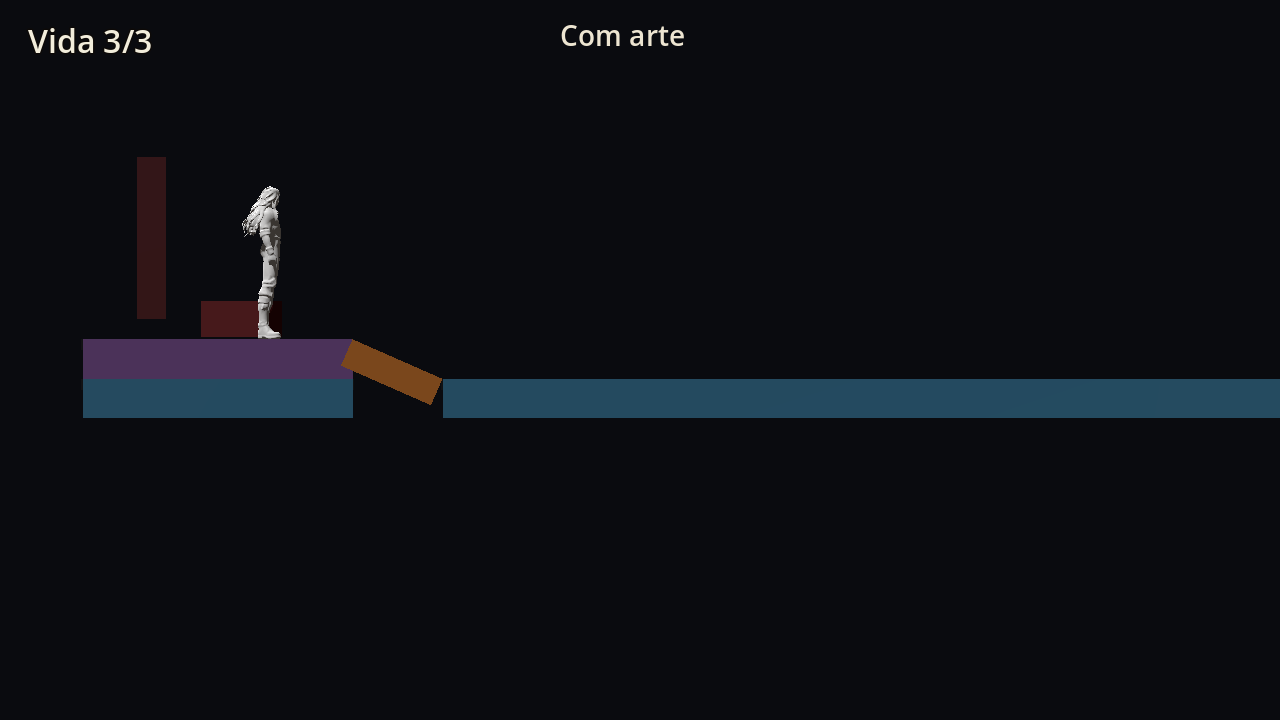
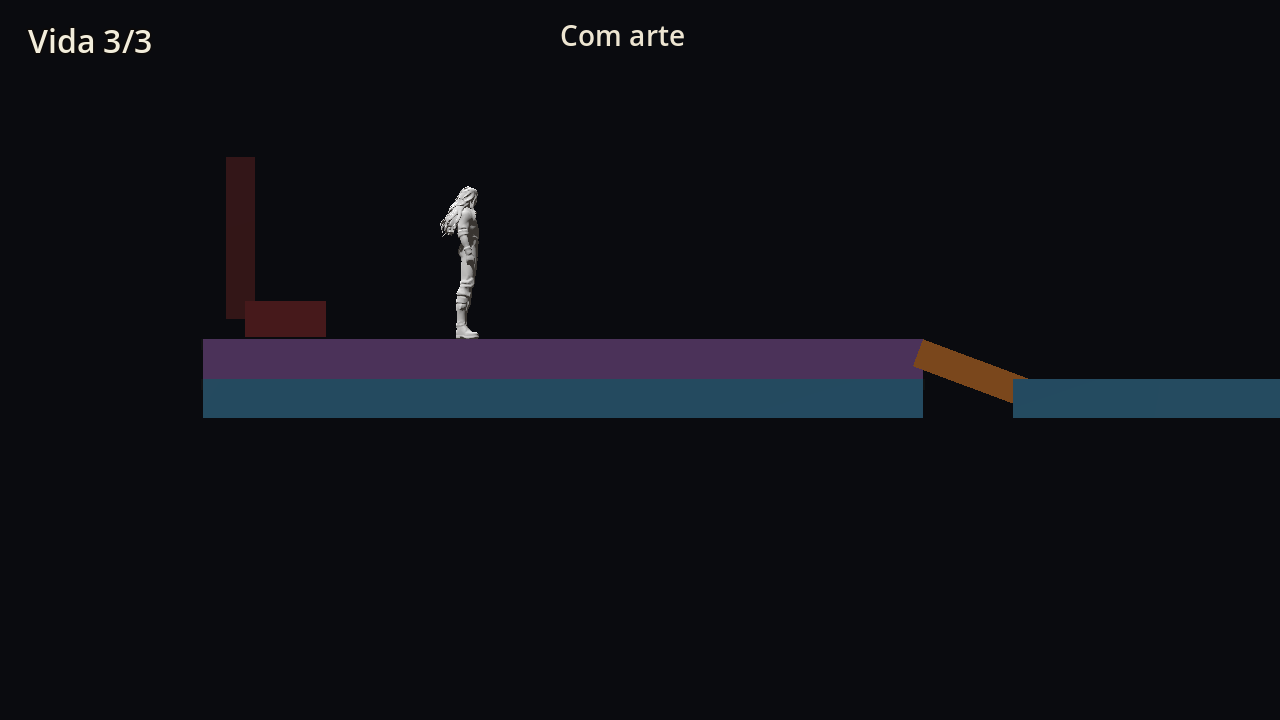
Alonga o salão do prólogo e abre a sala do trono à esquerda dele.

Changed region(s): [[0.0625, 0.2139, 0.8125, 0.5806]]

diff --git a/MD-usario/relatorios/15c-blockout-do-prologo.md b/MD-usario/relatorios/15c-blockout-do-prologo.md
@@ -6,23 +6,23 @@ A cena 15-B permanece em `scenes/verification/15_escadaria_exterior.tscn`. Lá, 
 
 ## Como a faixa está montada
 
-O jogador e a câmera vêm da cena 15. O nascimento continua no patamar inferior direito. A escadaria reaproveitada sobe 2,640 m em 5,520 m. A câmera fica em X = −26,20 enquanto o corpo está na escada, com `Size` = 8, perto 0,05 e longe 40. Depois que o corpo passa de X = −30, `EnquadramentoDoPrologo` acompanha X, com folga de 4,20 m, sem passar de X = −43,50. Não há paralaxe.
+O jogador e a câmera vêm da cena 15. O nascimento continua no patamar inferior direito. A escadaria reaproveitada sobe 2,640 m em 5,520 m. A câmera fica em X = −26,20 enquanto o corpo está na escada, com `Size` = 8, perto 0,05 e longe 40. Depois que o corpo passa de X = −30, `EnquadramentoDoPrologo` acompanha X. No script `scenes/verification/enquadramento_do_prologo.gd`, a câmera fica em X do jogador + 2,00 m, sem passar de −26,20 para a direita nem de −56,00 para a esquerda. Não há paralaxe.
 
-O salão e o estrado saem de `dados/sala_do_prologo.json`. Cada célula tem 1,00 m de largura e 0,44 m de altura. A origem é o canto inferior esquerdo da fileira de baixo, coluna 1, no espaço de `EscadariaExterior`, que está em X = −22 no mundo. A primeira string é a fileira mais alta. Coluna 1 é a da esquerda, e X cresce para a direita. `/` deixa o lado esquerdo mais alto. `\` deixa o lado direito mais alto.
+O salão e a sala do trono saem de `dados/sala_do_prologo.json`. Cada célula tem 1,00 m de largura e 0,44 m de altura. A origem é o canto inferior esquerdo da fileira de baixo, coluna 1, no espaço de `EscadariaExterior`, que está em X = −22 no mundo. A primeira string é a fileira mais alta. Coluna 1 é a da esquerda, e X cresce para a direita. `/` deixa o lado esquerdo mais alto. `\` deixa o lado direito mais alto.
 
-A fileira de baixo encontra o patamar superior em Y = 2,640. A rampa do meio sobe 0,440 m em 1,00 m, cerca de 24°, até o estrado. O estrado é a faixa `#` da fileira de cima. O assento e o encosto são malhas manuais em `SalaDoPrologo/ArteManual` e não entram na geração.
+A fileira de baixo é o salão: 14 m de piso, do limiar até a rampa, com o topo em Y = 2,640, o mesmo do patamar superior. A rampa sobe 0,440 m em 1,00 m, cerca de 24°. A fileira de cima, nos 8 m à esquerda dessa rampa, é o piso da sala do trono, com o topo em Y = 3,080. O assento e o encosto ficam no lado esquerdo desse piso, em `SalaDoPrologo/ArteManual`, e não entram na geração. O marcador `Estrado` fica à direita deles, para o corpo parar de frente para o trono.
 
 O gerador é `scenes/environment/gerador_de_sala.gd`, no nó `EscadariaExterior/SalaDoPrologo`. Ele roda ao abrir a cena no editor e de novo ao executar o piloto. Cada chamada apaga só os filhos de `Gerado` e os refaz. `ArteManual` fica no lugar.
 
 ## Uma célula, do caractere aos pés
 
-Abra `dados/sala_do_prologo.json`. Na segunda string, a quarta letra é `/`.
+Abra `dados/sala_do_prologo.json`. Na segunda string, a nona letra é `/`.
 
-- Linha 2, coluna 4.
-- O gerador calcula o vão de X = −22,120 a X = −21,120, no espaço da escadaria. A base dessa fileira termina em Y = 2,640. O lado esquerdo sobe até Y = 3,080.
-- O centro da face inclinada, onde a sola se apoia no meio da célula, fica em X = −21,620, Y = 2,860 e Z = 0. No mundo, esse X é −43,620.
-- O corpo é `EscadariaExterior/SalaDoPrologo/Gerado/Rampa_0_3`. `Colisao` é um `BoxShape3D` de 1,093 × 0,320 × 2,400 m. O eixo longo segue a rampa e o lado esquerdo é o mais alto.
-- A chegada medida no estrado, que é o alto dessa rampa, deixou os pés em X = −45,126, Y = 3,080 e Z = 0. Y = 3,080 é o topo da faixa `#` da fileira de cima.
+- Linha 2, coluna 9.
+- O gerador calcula o vão de X = −26,120 a X = −25,120, no espaço da escadaria. A base dessa fileira termina em Y = 2,640. O lado esquerdo sobe até Y = 3,080.
+- O centro da face inclinada, onde a sola se apoia no meio da célula, fica em X = −25,620, Y = 2,860 e Z = 0. No mundo, esse X é −47,620.
+- O corpo é `EscadariaExterior/SalaDoPrologo/Gerado/Rampa_0_8`. `Colisao` é um `BoxShape3D` de 1,259 × 0,320 × 2,400 m. O eixo longo segue a rampa e o lado esquerdo é o mais alto. A ponta baixa entra 0,18 m no piso do salão, para a emenda não abrir um vão.
+- A chegada medida no piso da sala do trono, que é o alto dessa rampa, deixou os pés em X = −53,264, Y = 3,080 e Z = 0. Y = 3,080 é o topo da faixa `#` da fileira de cima. O marcador `Estrado` está à direita do assento, então o corpo para de frente para ele.
 
 ## A torre
 
@@ -34,18 +34,18 @@ O material é um `StandardMaterial3D` sem iluminação, com transparência por r
 
 “Novo jogo” no piloto 15-C. A seta esquerda sobe. Os pés nascem em X = −20,800 e Y = 0,000, os mesmos da 15-B. A parada no meio ficou em X = −24,225 e Y = 1,256, também a mesma. O alto da escada ficou em X = −27,470 e Y = 2,640. Z permaneceu 0.
 
-Do nascimento ao limiar, 3,683 s. Os pés cruzaram o limiar em X = −29,570 e Y = 2,640, sem troca de sala. Do limiar ao estrado, 4,517 s. A chegada ficou em X = −45,126 e Y = 3,080. A seta direita devolveu o corpo ao patamar, em Y = 0. O mesmo percurso, com a arte ligada, chegou de novo ao estrado e voltou.
+Do nascimento ao limiar, 3,683 s. Os pés cruzaram o limiar em X = −29,570 e Y = 2,640, sem troca de sala. Do limiar ao piso da sala do trono, 6,833 s. A chegada ficou em X = −53,264 e Y = 3,080. A seta direita devolveu o corpo ao patamar, em Y = 0. O mesmo percurso, com a arte ligada, chegou de novo a esse piso e voltou.
 
 No meio da rampa, B passou a “Com arte” e voltou a “Blocos”. Os pés ficaram em X = −24,225 e Y = 1,256. A câmera ficou em X = −26,20. `Lance/Rampa/Colisao` continuou ativa.
 
 A prancha dos dois modos, no mesmo enquadramento, está em `MD-usario/relatorios/evidencias/15c-blocos-e-arte.png`. A chegada ao estrado está em `MD-usario/relatorios/evidencias/15c-chegada-ao-trono.png`. As duas são capturas do Catlenight.
 
-Um `?` na linha 2, coluna 4, fez o gerador apontar `sala_do_prologo.json: linha 2, coluna 4`. Trocar um `.` da fileira de cima por `#` levou os corpos de 4 para 5. Gerar de novo manteve 5. Restaurar o arquivo voltou a 4. O JSON original foi gravado de volta ao fim do teste.
+Um `?` na linha 2, coluna 9, fez o gerador apontar `sala_do_prologo.json: linha 2, coluna 9`. Trocar um `.` da fileira de cima por `#` levou os corpos de 4 para 5. Gerar de novo manteve 5. Restaurar o arquivo voltou a 4. O JSON original foi gravado de volta ao fim do teste.
 
 ## Exercício de cinco minutos
 
-1. Abra `dados/sala_do_prologo.json`. Na primeira string, a última letra é `.`. É a linha 1, coluna 14.
+1. Abra `dados/sala_do_prologo.json`. Na primeira string, a letra 16 é `.`. É a linha 1, coluna 16, já dentro do salão.
 2. Troque esse `.` por `#`. Salve.
 3. No Godot, abra `scenes/verification/15c_blockout_do_prologo.tscn` ou rode com F6. O gerador refaz `Gerado` ao abrir e ao executar. Escolha “Novo jogo”.
-4. Segure a seta esquerda até passar do limiar. O degrau novo é o bloco de 0,44 m no começo do salão, com o topo em Y = 3,080. Pule com Espaço e olhe se a sola para nesse topo. No editor, o corpo é `SalaDoPrologo/Gerado/Piso_1_13` e a forma é `Colisao`.
-5. Volte a última letra para `.` e salve. Rode de novo: o degrau some e a contagem de corpos volta à anterior.
+4. Segure a seta esquerda até passar do limiar e entrar no salão. O degrau novo é o bloco de 0,44 m com o topo em Y = 3,080. Pule com Espaço e olhe se a sola para nesse topo. No editor, o corpo é `SalaDoPrologo/Gerado/Piso_1_15` e a forma é `Colisao`.
+5. Volte essa letra para `.` e salve. Rode de novo: o degrau some e a contagem de corpos volta à anterior.

diff --git a/docs/ROADMAP.md b/docs/ROADMAP.md
@@ -357,9 +357,9 @@ O canto da tela do piloto 08 já mostra “Vida 3/3”. O restante da interface 
 | Critério | Status |
 | --- | --- |
 | Nascimento, subida, parada e alto iguais aos da 15-B | Verificado. Pés em X = −20,800 e Y = 0,000; parada em X = −24,225 e Y = 1,256; alto em X = −27,470 e Y = 2,640. Z = 0 |
-| Limiar, salão e estrado, ida e volta | Verificado. Do nascimento ao limiar, 3,683 s. Do limiar ao estrado, 4,517 s. Chegada em X = −45,126 e Y = 3,080. Nenhuma troca de sala. A direita voltou a Y = 0 |
+| Limiar, salão e sala do trono, ida e volta | Verificado. Do nascimento ao limiar, 3,683 s. Do limiar ao piso da sala do trono, 6,833 s. Chegada em X = −53,264 e Y = 3,080. Nenhuma troca de sala. A direita voltou a Y = 0 |
 | B alterna blocos e arte sem mover os pés | Verificado no meio da rampa, nos dois sentidos. Câmera em X = −26,20. A colisão da rampa permaneceu. O percurso repetiu com arte |
-| A matriz gera desenho e colisão juntos, sem duplicar | Verificado. Símbolo ruim apontou linha 2, coluna 4. Um `#` novo passou de 4 para 5 corpos; a segunda geração ficou em 5; restaurar voltou a 4 |
+| A matriz gera desenho e colisão juntos, sem duplicar | Verificado. Símbolo ruim apontou linha 2, coluna 9. Um `#` novo passou de 4 para 5 corpos; a segunda geração ficou em 5; restaurar voltou a 4 |
 | A rota 15-B entre vestíbulo, galeria e capela | Verificado. `verificar_escadaria_15.gd` nas fases `percurso` e `continuar` deu `RESULTADO ok` |
 | F6 no editor | Pendente. A cena executada foi `scenes/verification/15c_blockout_do_prologo.tscn`, aberta pelo teste |
 

diff --git a/MD-usario/prompts/15c-sala-do-trono.md b/MD-usario/prompts/15c-sala-do-trono.md
@@ -1,0 +1,11 @@
+e sobre esse retorno
+
+O prólogo agora se percorre em blocos e, no mesmo lugar, com a arte do exterior. A tecla B alterna as duas vistas sem mover os pés.
+
+A cena para o F6 é scenes/verification/15c_blockout_do_prologo.tscn. O atalho do editor não foi pressionado; a janela abriu por tests/capturar_15c.tscn. A matriz está em dados/sala_do_prologo.json. Do nascimento ao limiar foram 3,683 s; do limiar ao estrado, 4,517 s. A prancha comparativa está em MD-usario/relatorios/evidencias/15c-blocos-e-arte.png. O commit da entrega é https://github.com/RaulDuque/catlenight/commit/4a88a59c650fc6011048ed8eceb4beb102f7da7f. O origin/main ficou em bbd1162f03225065cce77be3339d1c9d426e8175, com a pasta de teste ignorada no commit seguinte.
+
+“Novo jogo” nasce no patamar inferior direito, em X = −20,800 e Y = 0,000, como na 15-B. A seta esquerda sobe, para no meio em X = −24,225 e Y = 1,256, e chega ao alto em X = −27,470 e Y = 2,640. Seguir para a esquerda atravessa o limiar, o salão e o estrado, em Y = 3,080, sem cair no vestíbulo. A seta direita desce de volta. A cena 15-B continua ligando o portão ao vestíbulo, à galeria e à capela.
+
+O gerador EscadariaExterior/SalaDoPrologo lê a matriz ao abrir a cena e de novo ao rodar o piloto. A primeira fileira é a mais alta; a coluna 1 fica à esquerda. / sobe para a esquerda. Para o exercício: na primeira string, troque o último . (linha 1, coluna 14) por #, rode com F6 e pule no degrau novo. Depois devolva o ..
+
+faltou uma parte

diff --git a/docs/DECISIONS.md b/docs/DECISIONS.md
@@ -99,7 +99,7 @@ A ferramenta ficou em `D:\Tools\Hunyuan3D`, com Python 3.13.17 em `D:\Tools\Pyth
 
 O exterior do piloto 15-C tem duas apresentações da mesma colisão. “Blocos” mostra a rampa, os patamares e o limiar com cores chapadas. “Com arte” mostra os degraus em GLB, o vão 3D e imagens originais em `QuadMesh`: o céu opaco em Z = −8 e a torre recortada em Z = −4. A parede ao lado do portão usa material iluminado, para a `OmniLight3D` do vão aparecer nela. Não há normal map: o relevo não mudava a leitura da escada em 1280×720.
 
-A câmera continua ortográfica, `Size` = 8, perto 0,05 e longe 40. Não há paralaxe. A tecla é `alternar_apresentacao`, física B. O salão e o trono ficam em blocos nos dois modos. A matriz `dados/sala_do_prologo.json` gera só esse trecho; a escadaria aprovada conserva a própria rampa.
+A câmera continua ortográfica, `Size` = 8, perto 0,05 e longe 40. Não há paralaxe. A tecla é `alternar_apresentacao`, física B. O salão e o trono ficam em blocos nos dois modos. A matriz `dados/sala_do_prologo.json` gera só esse trecho; a escadaria aprovada conserva a própria rampa. O salão é a fileira de baixo, 14 m no mesmo Y do patamar. A sala do trono é a fileira de cima, 8 m, um degrau de 0,44 m acima. Uma subida de 1,32 m em face vertical parava o corpo antes do topo; o degrau curto, já caminhável na escadaria, é o que liga as duas salas.
 
 ## D009 — Godot 4.7.2 oficial, fora do projeto
 

diff --git a/README.md b/README.md
@@ -24,7 +24,7 @@ O piloto do portal da sacada é `scenes/verification/14_portal_da_sacada.tscn`. 
 
 O piloto da escadaria é `scenes/verification/15_escadaria_exterior.tscn`. Ele reaproveita a cena 14. “Novo jogo” começa no patamar inferior direito, com “Vida 3/3”. A seta esquerda sobe a rampa até o portão, no alto à esquerda, e atravessa `EscadariaExterior/Saida` até o vestíbulo. A volta deixa o jogador no patamar superior; a seta direita desce. “Continuar” segue abrindo no altar da capela. A cena 14 continua sem essa saída, para o exercício do portal.
 
-O piloto de blocos do prólogo é `scenes/verification/15c_blockout_do_prologo.tscn`. “Novo jogo” usa a mesma escadaria. A seta esquerda segue pelo limiar até o salão e o estrado. A seta direita volta ao patamar de baixo. A tecla B alterna “Blocos” e “Com arte”. O salão está em `dados/sala_do_prologo.json`. A cena 15 continua levando ao vestíbulo.
+O piloto de blocos do prólogo é `scenes/verification/15c_blockout_do_prologo.tscn`. “Novo jogo” usa a mesma escadaria. A seta esquerda segue pelo limiar, pelo salão e até a sala do trono. A seta direita volta ao patamar de baixo. A tecla B alterna “Blocos” e “Com arte”. O salão está em `dados/sala_do_prologo.json`. A cena 15 continua levando ao vestíbulo.
 
 ## Versão do Godot
 

diff --git a/docs/GAME_DESIGN.md b/docs/GAME_DESIGN.md
@@ -37,7 +37,7 @@ A primeira área é o prólogo: o jogador nasce fora do castelo e sobe até a en
 
 A faixa de baixo da prancha organiza a sequência exterior, patamar, salão e trono. O nascimento fica no patamar inferior direito. A seta esquerda sobe em −X até o patamar superior esquerdo. A seta direita desce.
 
-O piloto `scenes/verification/15_escadaria_exterior.tscn` liga esse limiar ao vestíbulo já construído. O piloto `scenes/verification/15c_blockout_do_prologo.tscn` estuda a faixa inteira sem essa troca: depois do limiar o chão continua para a esquerda, atravessa o salão e sobe um estrado com base, assento e encosto. Os dois percursos convivem. A tecla B troca a apresentação do exterior entre blocos e arte, sem mover os pés.
+O piloto `scenes/verification/15_escadaria_exterior.tscn` liga esse limiar ao vestíbulo já construído. O piloto `scenes/verification/15c_blockout_do_prologo.tscn` estuda a faixa inteira sem essa troca: depois do limiar há um salão de 14 m e, à esquerda, uma sala do trono com piso 0,44 m mais alto, base, assento e encosto. Os dois percursos convivem. A tecla B troca a apresentação do exterior entre blocos e arte, sem mover os pés.
 
 Ficam anotados para etapas futuras, sem caminho definido pela prancha:
 
